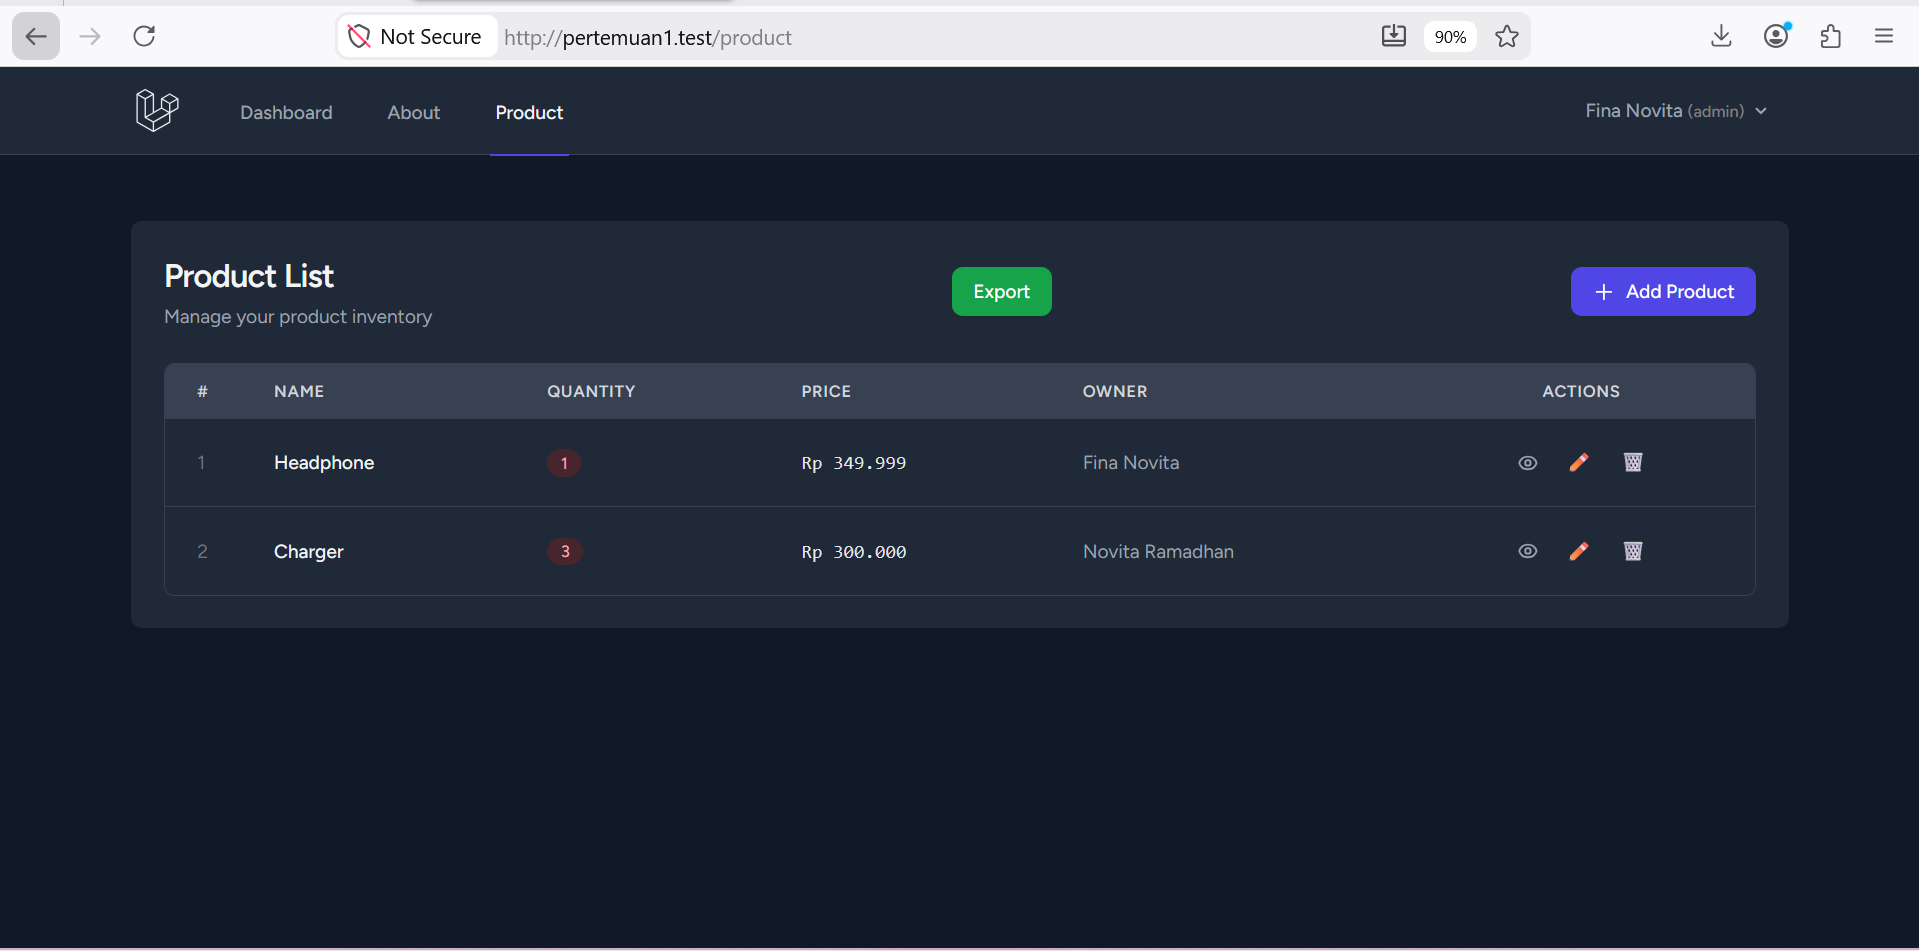
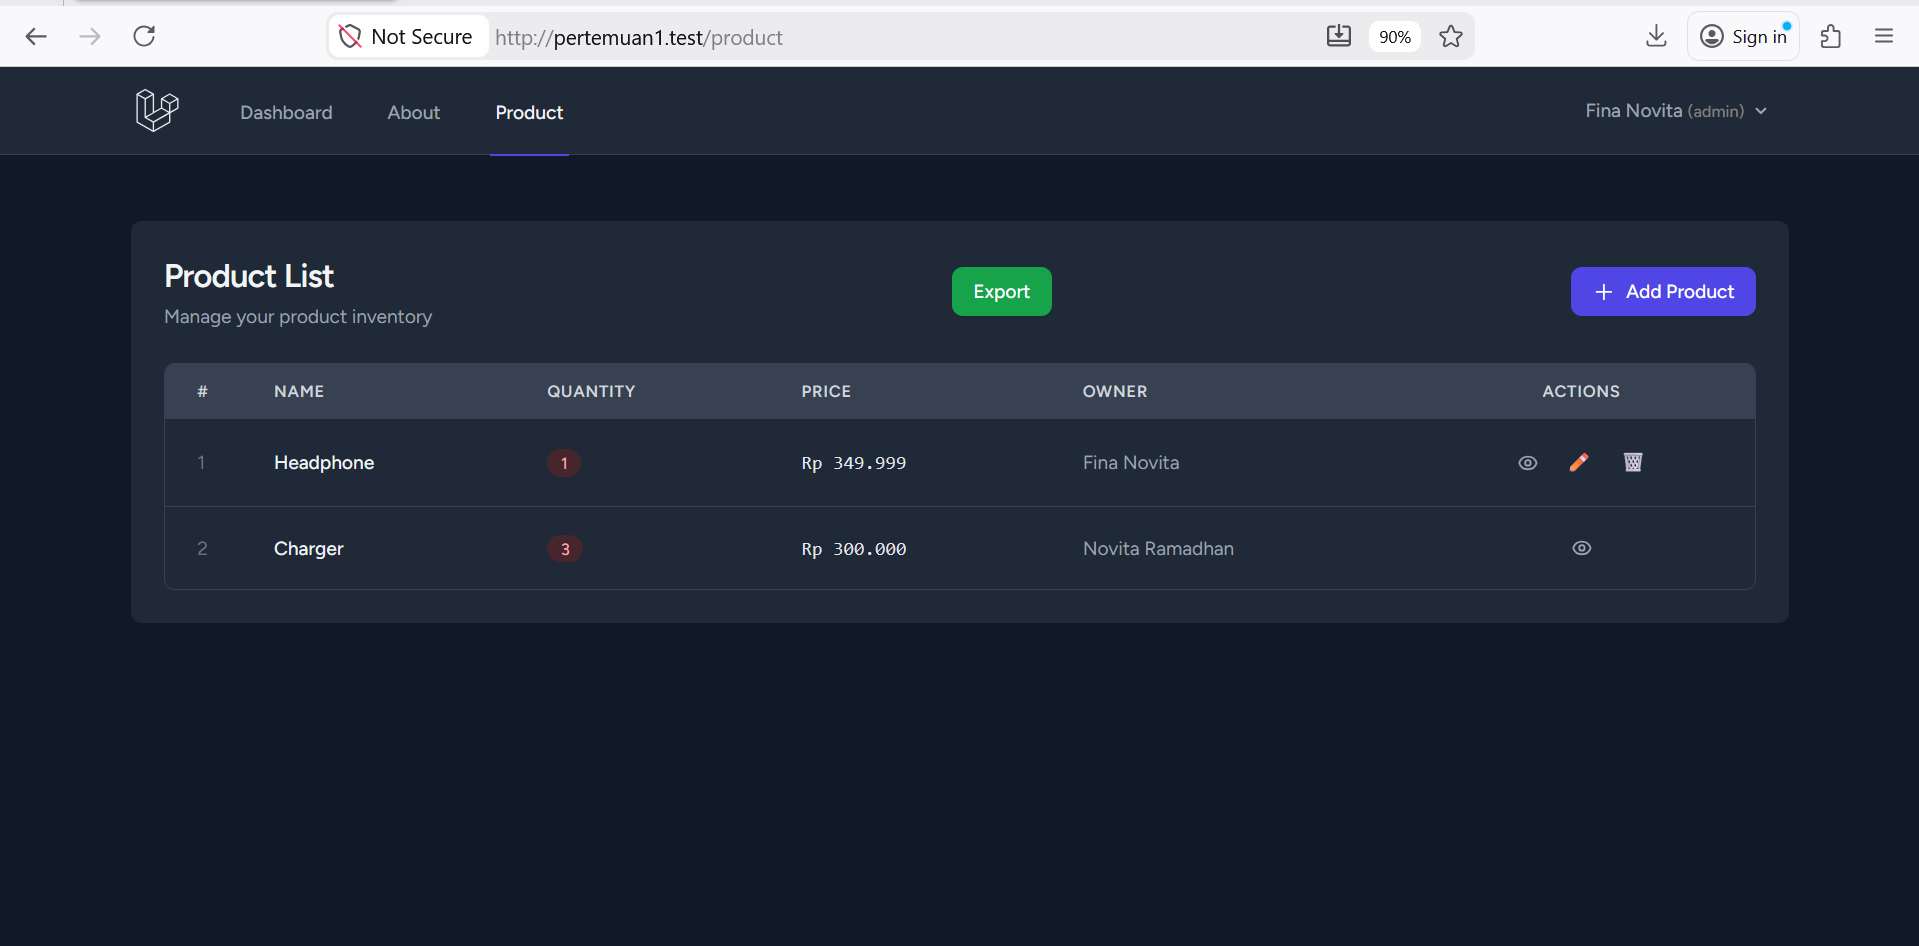
Revisi pertemuan 5

diff --git a/app/Policies/ProductPolicy.php b/app/Policies/ProductPolicy.php
@@ -37,7 +37,7 @@ class ProductPolicy
      */
     public function update(User $user, Product $product): bool
     {
-        return $user->id === $product->user_id || $user->role === 'admin';
+        return $user->role === 'admin' && $user->id === $product->user_id;
     }
 
     /**
@@ -45,7 +45,7 @@ class ProductPolicy
      */
     public function delete(User $user, Product $product): bool
     {
-        return $user->id === $product->user_id || $user->role === 'admin';
+        return $user->role === 'admin' && $user->id === $product->user_id;
     }
 
     /**
